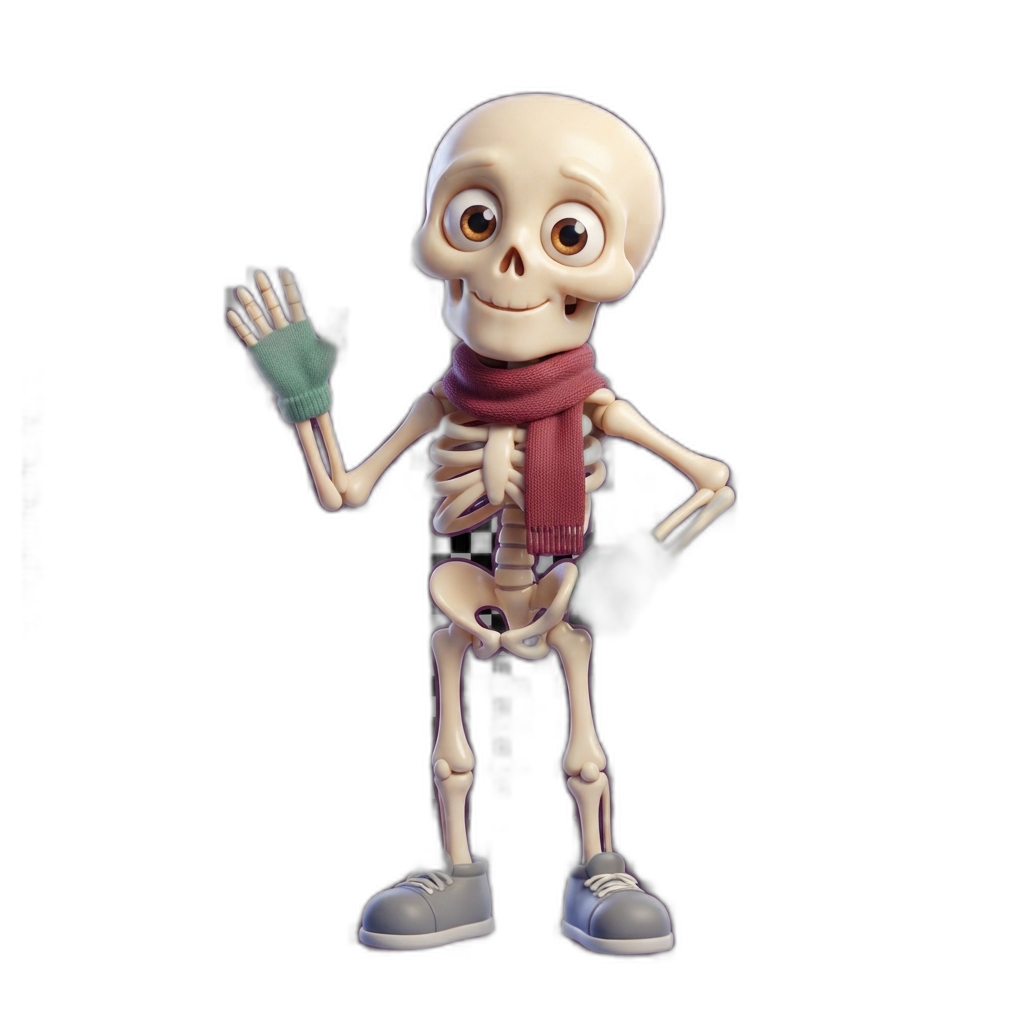
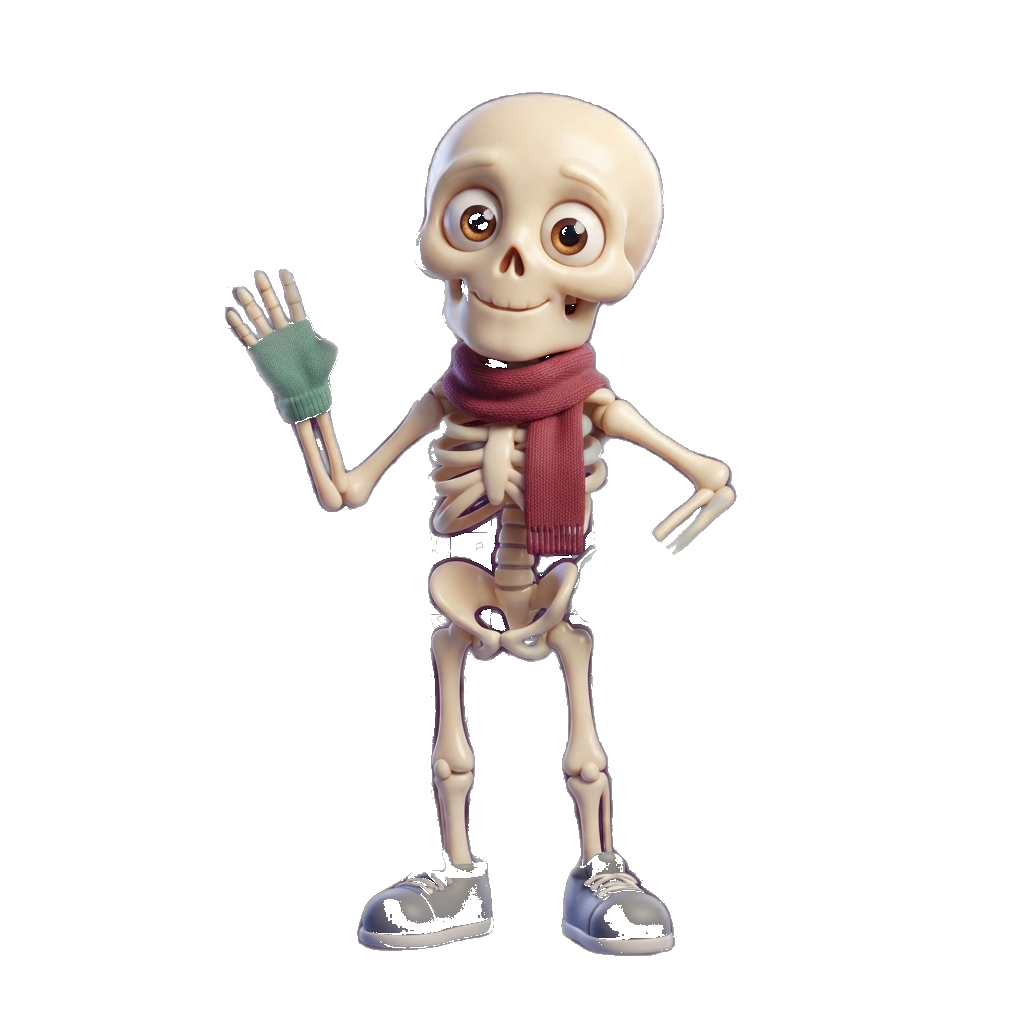
image update

diff --git a/shared/mobile-ui.css b/shared/mobile-ui.css
@@ -683,7 +683,6 @@ body.app-body {
   padding: max(1.25rem, env(safe-area-inset-top)) 1.25rem 0.75rem;
   text-align: center;
   background: linear-gradient(180deg, rgba(246, 250, 254, 0.98) 65%, rgba(246, 250, 254, 0));
-  border-bottom: 1px solid rgba(0, 93, 182, 0.06);
 }
 .signup-header .mascot-stage {
   width: 4.75rem;
@@ -729,8 +728,6 @@ body.app-body {
   font-weight: 800;
   color: #171c1f;
   margin-bottom: 1rem;
-  padding-bottom: 0.625rem;
-  border-bottom: 1px solid rgba(0, 93, 182, 0.08);
 }
 .signup-form-card__title-icon {
   width: 2rem;

diff --git a/shared/cleanup-skeleton-transparency.py b/shared/cleanup-skeleton-transparency.py
@@ -1,0 +1,71 @@
+"""Remove baked-in checkerboard / matte artifacts from skeleton PNG cutouts."""
+from __future__ import annotations
+
+from pathlib import Path
+
+from PIL import Image
+
+ROOT = Path(__file__).resolve().parent
+OUTSIDE_DIR = ROOT / "mascots" / "outside"
+
+
+def is_neutral_gray(r: int, g: int, b: int) -> bool:
+    return abs(r - g) < 10 and abs(g - b) < 10 and abs(r - b) < 10
+
+
+def cleanup_checkerboard(img: Image.Image) -> tuple[Image.Image, int]:
+    img = img.convert("RGBA")
+    px = img.load()
+    w, h = img.size
+    removed = 0
+
+    for y in range(h):
+        for x in range(w):
+            r, g, b, a = px[x, y]
+            if a < 16:
+                px[x, y] = (r, g, b, 0)
+                continue
+
+            if r < 24 and g < 24 and b < 24:
+                px[x, y] = (0, 0, 0, 0)
+                removed += 1
+                continue
+
+            avg = (r + g + b) / 3
+            if is_neutral_gray(r, g, b):
+                if 40 <= avg <= 135 or avg >= 248:
+                    px[x, y] = (0, 0, 0, 0)
+                    removed += 1
+                    continue
+
+            if a < 64:
+                px[x, y] = (r, g, b, 0)
+                removed += 1
+
+    return img, removed
+
+
+def process_file(path: Path) -> None:
+    img, removed = cleanup_checkerboard(Image.open(path))
+    img.save(path, format="PNG", optimize=True)
+    print(f"cleaned {path.name}: removed {removed} pixels")
+
+
+def main() -> None:
+    if not OUTSIDE_DIR.is_dir():
+        raise SystemExit(f"Missing directory: {OUTSIDE_DIR}")
+
+    targets = sorted(OUTSIDE_DIR.glob("skeleton-age-*.png"))
+    if not targets:
+        raise SystemExit("No outside skeleton PNGs found.")
+
+    for path in targets:
+        if path.name.endswith("-fixed.png"):
+            continue
+        process_file(path)
+
+    print(f"Done — cleaned {len(targets)} outside skeleton images.")
+
+
+if __name__ == "__main__":
+    main()
